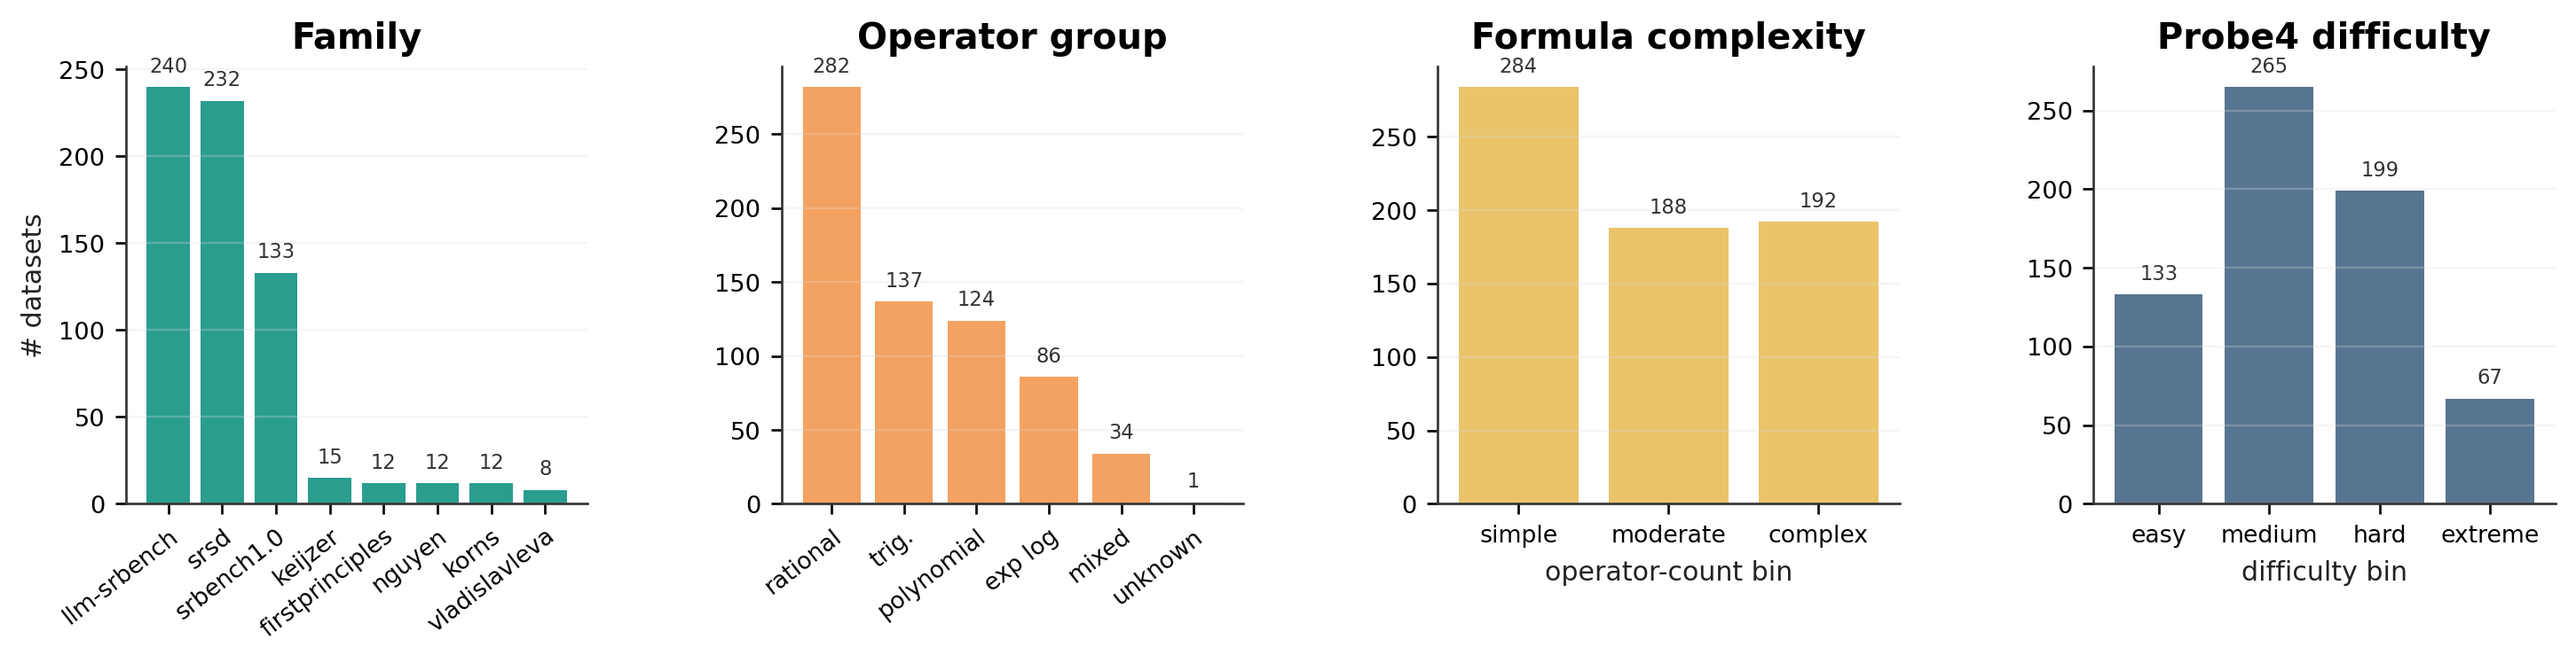
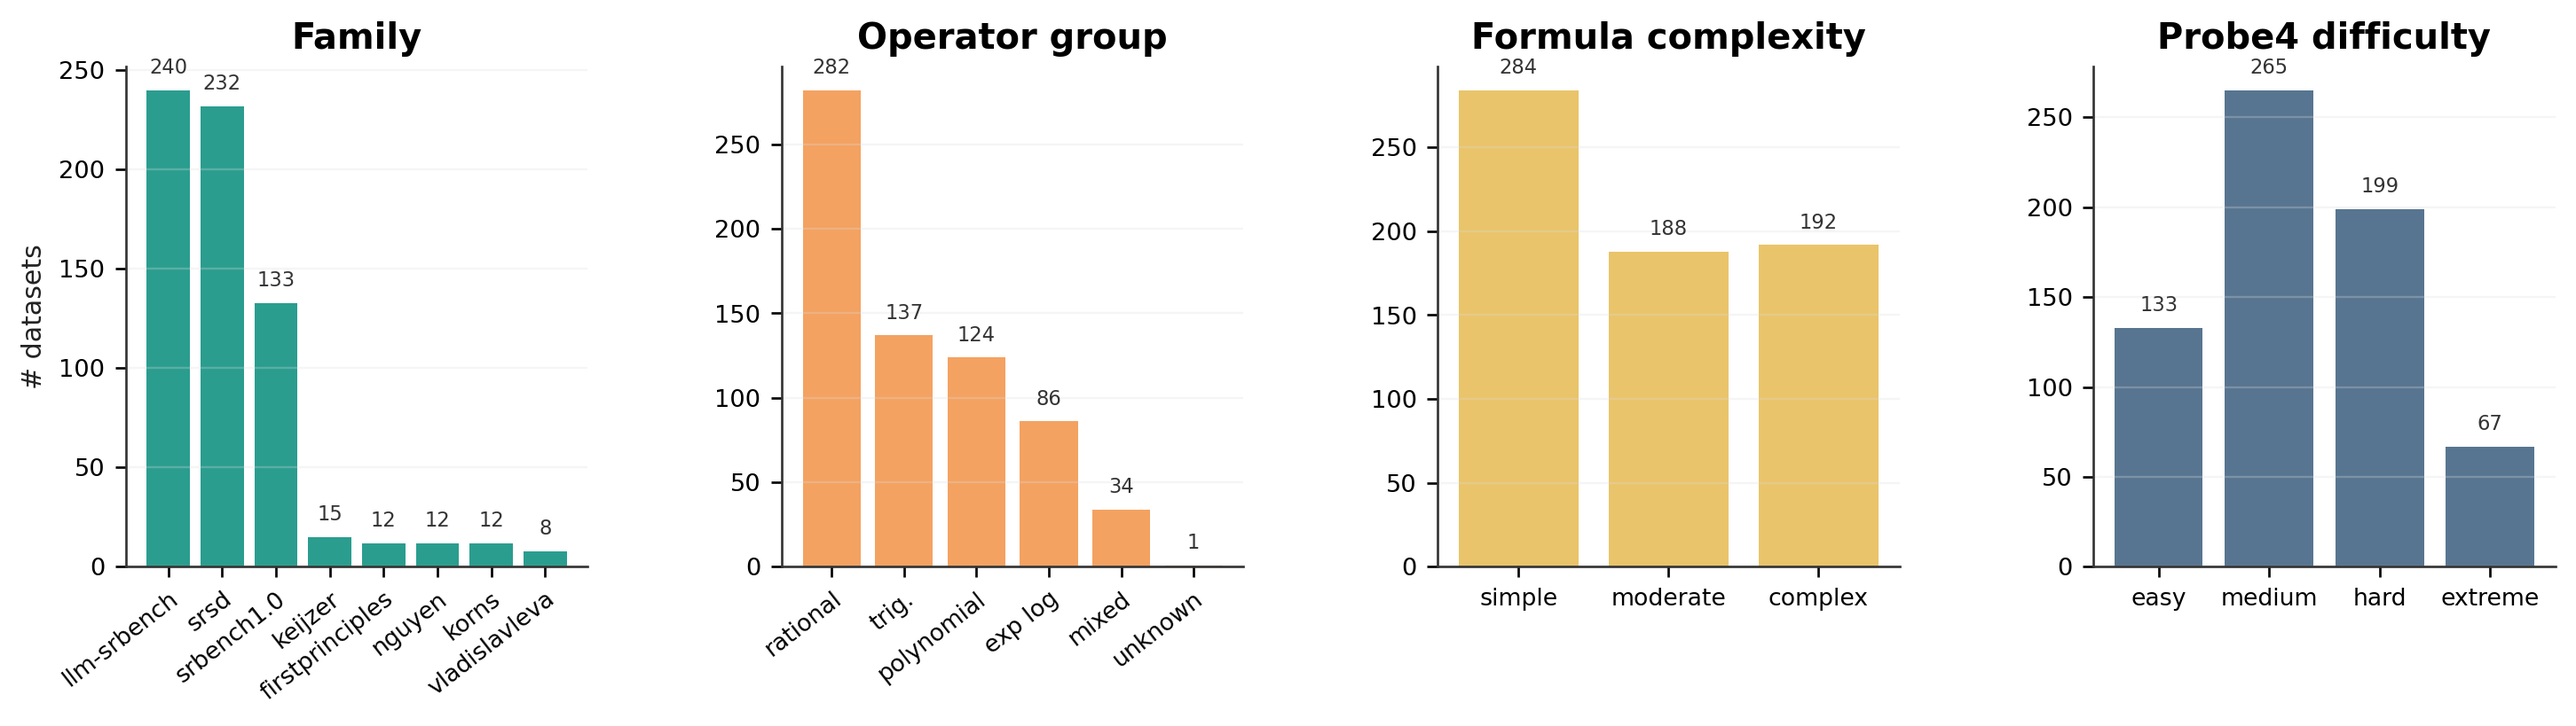
[update] 移除GT数据池图横轴标题

diff --git a/check/plot_paper_experiment_figures.py b/check/plot_paper_experiment_figures.py
@@ -414,7 +414,6 @@ def plot_reservoir_composition(dataset_level: pd.DataFrame, record: list[FigureR
     axes[2].set_title("Formula complexity", loc="center", x=0.5)
     axes[2].set_xticks(np.arange(len(complexity)))
     axes[2].set_xticklabels([wrap_label(x, 12) for x in complexity.index], rotation=0)
-    axes[2].set_xlabel("operator-count bin")
     add_bar_labels(axes[2], complexity.values)
 
     difficulty_order = ["easy", "medium", "hard", "extreme"]
@@ -423,7 +422,6 @@ def plot_reservoir_composition(dataset_level: pd.DataFrame, record: list[FigureR
     axes[3].set_title("Probe4 difficulty", loc="center", x=0.5)
     axes[3].set_xticks(np.arange(len(difficulty)))
     axes[3].set_xticklabels([wrap_label(x, 12) for x in difficulty.index], rotation=0)
-    axes[3].set_xlabel("difficulty bin")
     add_bar_labels(axes[3], difficulty.values)
 
     for ax in axes:
@@ -433,7 +431,7 @@ def plot_reservoir_composition(dataset_level: pd.DataFrame, record: list[FigureR
         ax.tick_params(axis="x", labelsize=8.0)
         ax.tick_params(axis="y", labelsize=8.2)
 
-    fig.subplots_adjust(left=0.065, right=0.985, top=0.78, bottom=0.36, wspace=0.42)
+    fig.subplots_adjust(left=0.065, right=0.985, top=0.78, bottom=0.30, wspace=0.42)
     files = save(fig, OUTDIR / "figure02_reservoir_composition.png")
     record.append(FigureRecord("Figure 2", "GT-Reservoir composition", "generated", ";".join(files)))
 
